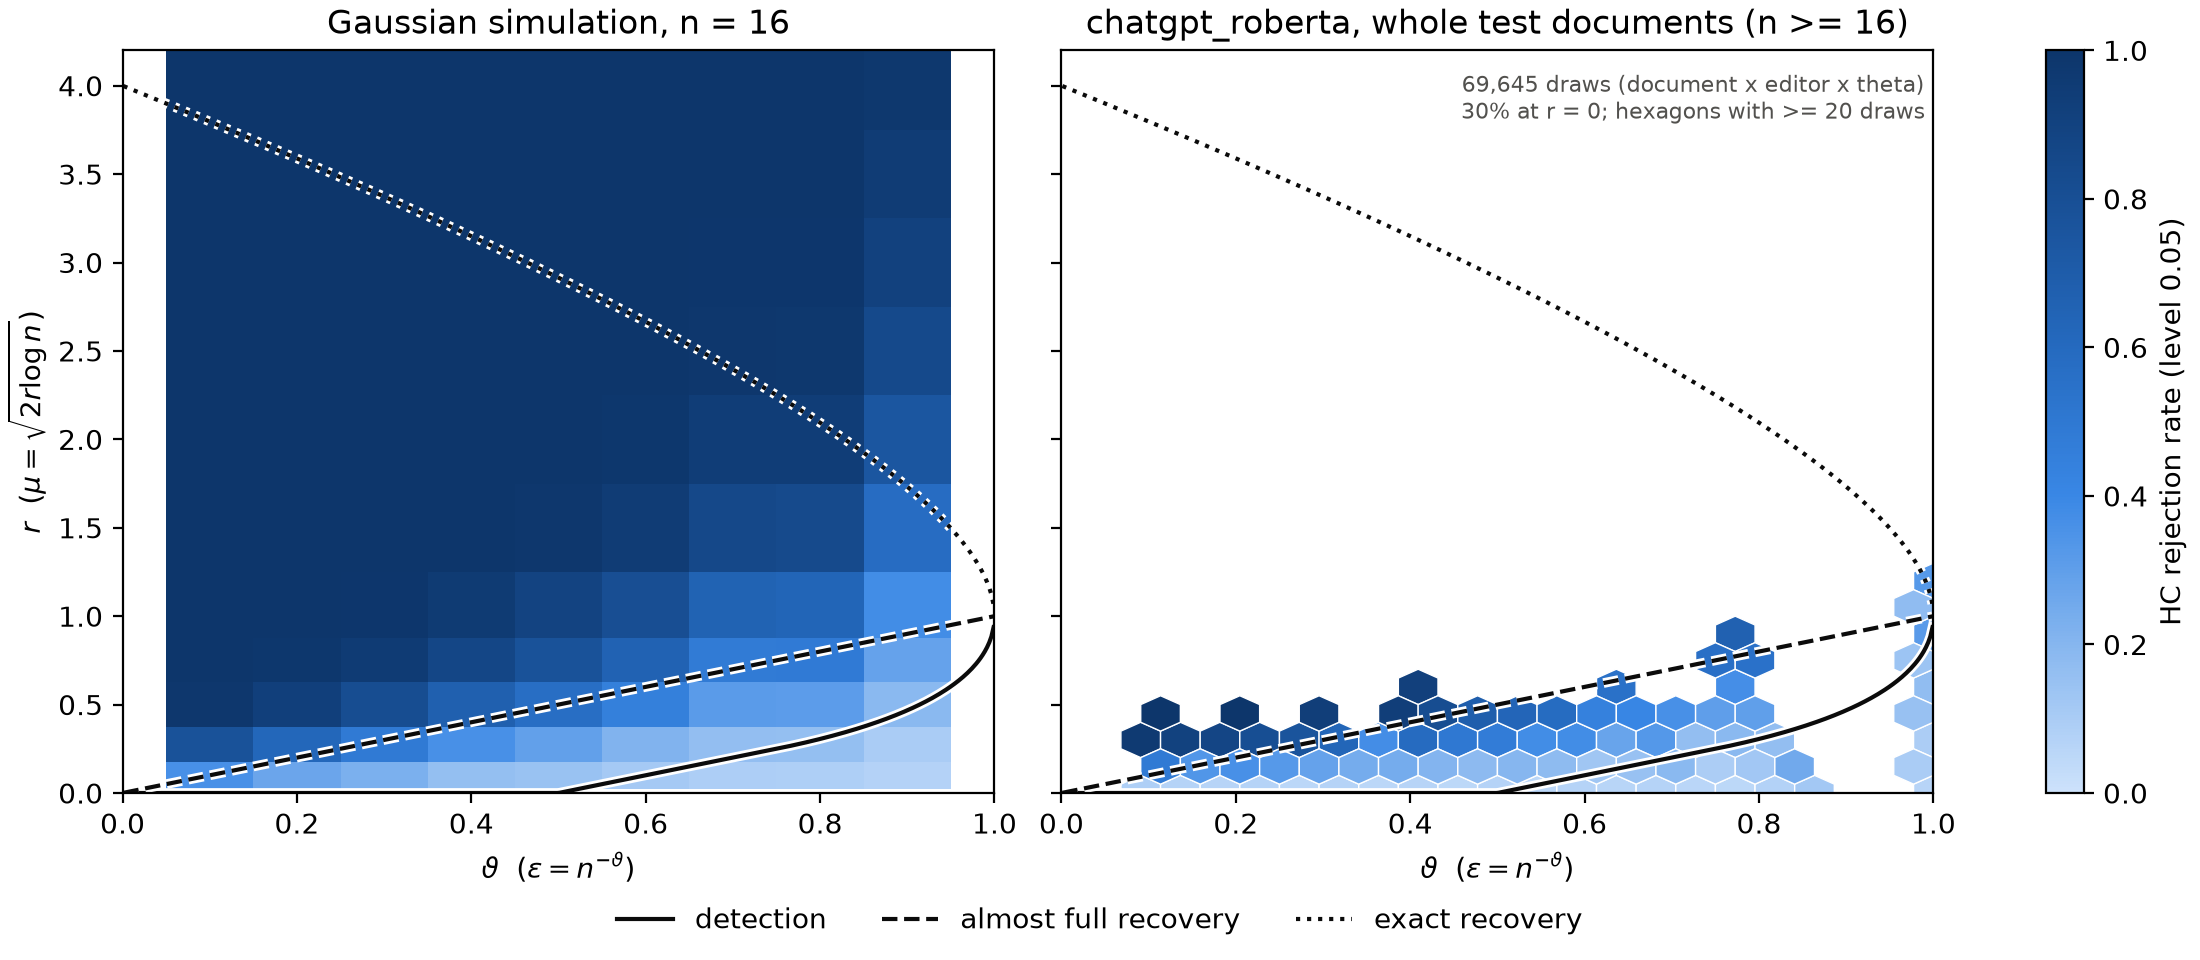
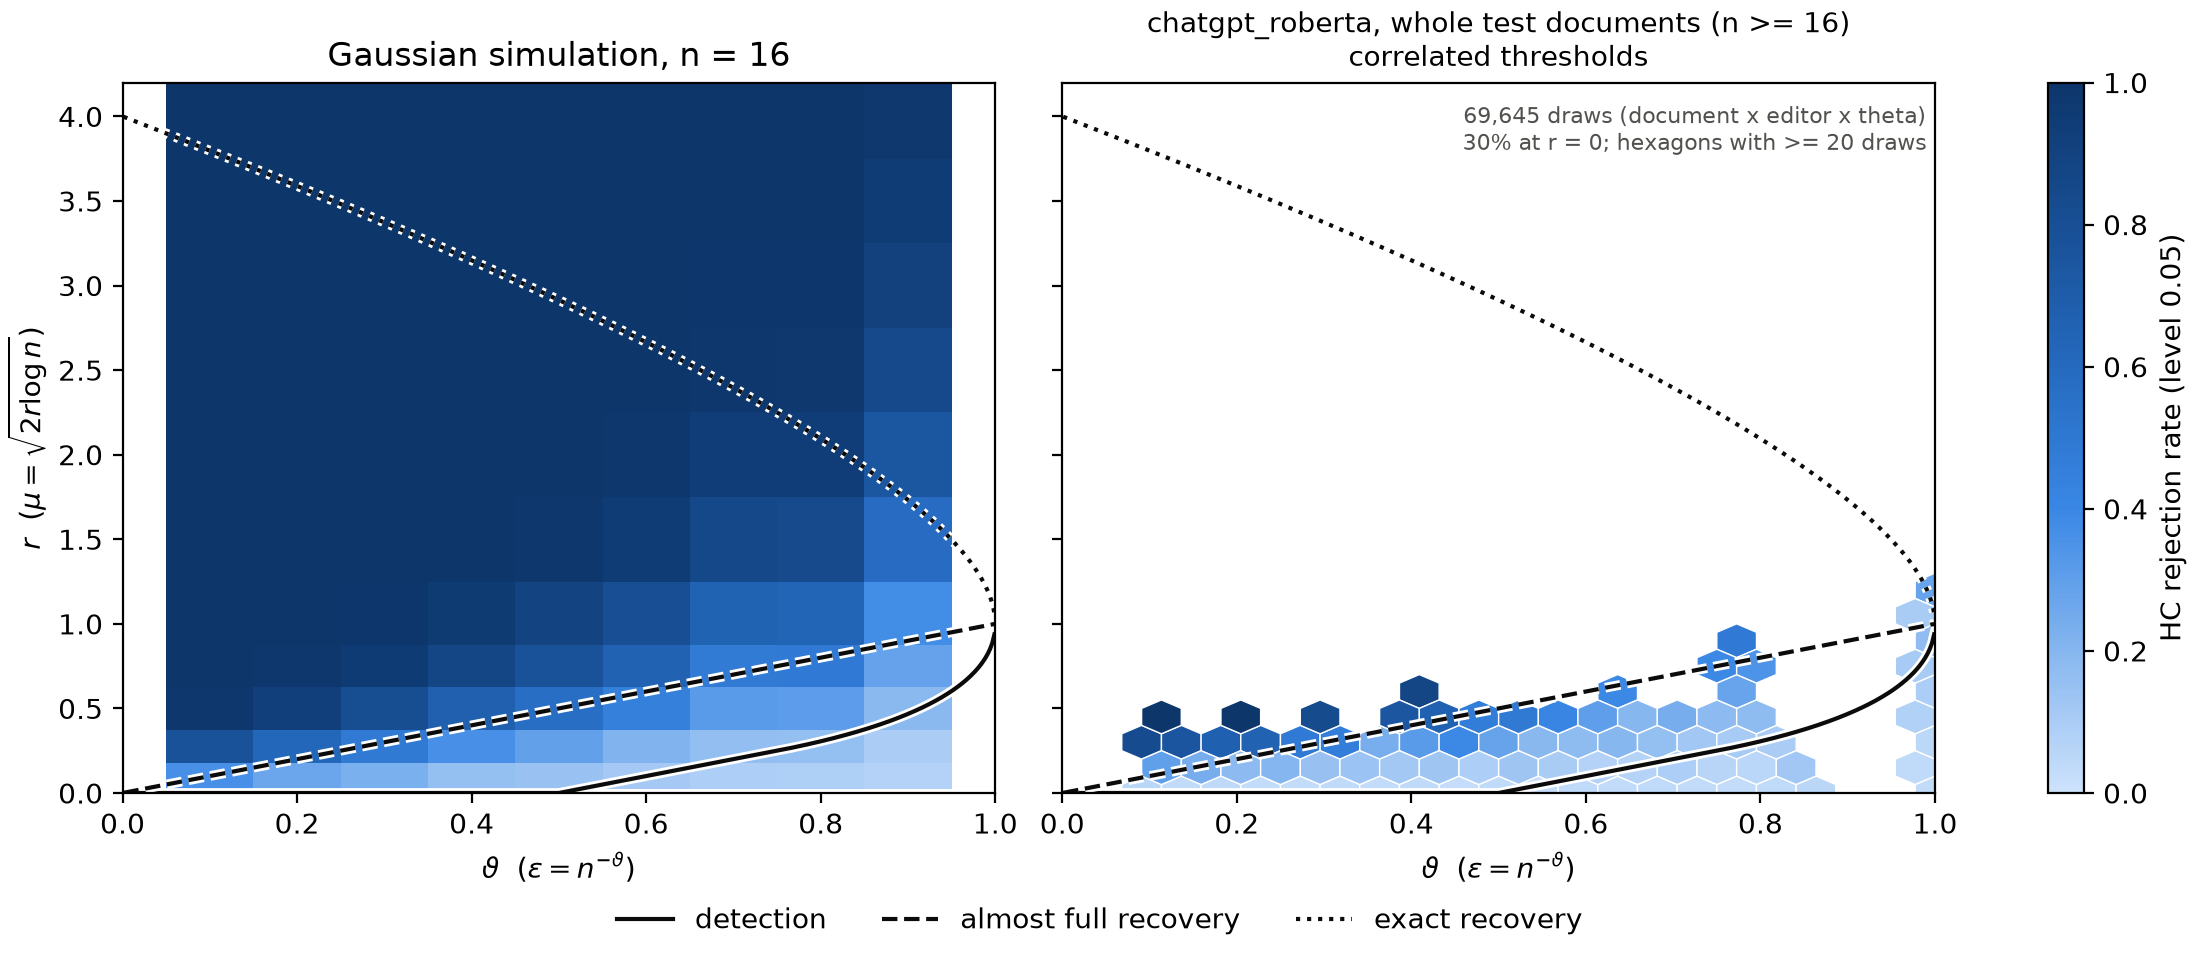
Pilot results: type I error and power under the correlated thresholds
With thresholds for the within-document correlation, every global test is back to
0.04-0.06 on human-only documents (Stouffer was 0.24, HC+ 0.17, HC 0.09). HC on the
ChatGPT RoBERTa detector still detects dense edits (11.1% at theta = 0.1 vs 4.7%) and
short documents now do better than long ones. Review item 41 records the fix.

diff --git a/docs/pilot-results.md b/docs/pilot-results.md
@@ -43,61 +43,73 @@ AUC of edited vs human test sentences (all sources; 0.5 = no signal):
 ![phase diagram, chatgpt_roberta](figures/pilot/phase_chatgpt_roberta.png)
 
 Each edited test document (one draw per editor and theta) is placed at its own theta = 1 − log m / log n and
-r = max(mean edited z, 0)² / (2 log n), and binned; colour is the share HC rejects. r uses the true edit positions
+r = max(mean edited z, 0)² / (2 log n), and binned; colour is the share HC rejects, with thresholds that account for
+within-document correlation (section 3). r uses the true edit positions
 and the same z the test sees, so this placement is descriptive, not an estimate. Most mass sits at r < 0.5, below
 the almost-full-recovery line, and 30% of draws at r = 0.
 
 ![HC power by theta](figures/pilot/power.png)
 
-For `chatgpt_roberta`, HC rejects 17.3% of edited documents at theta = 0.1 (dense), 11.1% at 0.5 and 9.2% at 0.9,
-against 8.9% on human-only documents: detectable when dense, indistinguishable from the null when sparse. A shift of
+With the correlated thresholds of section 3, HC on `chatgpt_roberta` rejects 11.1% of edited documents at
+theta = 0.1 (dense), 6.4% at 0.5 and 4.9% at 0.9, against 4.7% on human-only documents: detectable when dense,
+indistinguishable from the null when sparse. (With the old iid thresholds: 17.3%, 11.1%, 9.2% against 8.9%.)
+Short documents are now detected more often than long ones (12.6% for n = 16-31 vs 6.8% for n ≥ 64 at
+theta = 0.1): with a shared document component, extra sentences add little independent information (effective
+sample size n / (1 + (n − 1) rho) levels off at about 1 / rho), while the threshold keeps growing with n. A shift of
 z ≈ 0.4 at n = 16 is r ≈ 0.03, far below the detection boundary for theta > 1/2 (r = 0.2 at theta = 0.7), so this
 is the expected behaviour of a weak detector, not a failure of HC. Support recovery fails everywhere (BH exact
 recovery 0%, Hamming error / m ≈ 1). `openai_roberta` stays at or below its null rate at every theta.
 
 [phase diagram, openai_roberta](figures/pilot/phase_openai_roberta.png)
 
-## 3. Within-document dependence breaks the global tests' null
+## 3. Within-document dependence breaks the iid thresholds; correlated thresholds restore the level
 
 ![type I error](figures/pilot/type1.png)
 
-On human-only documents (whole, n ≥ 16, 1,301 documents, nominal 0.05):
+Rejection rate on human-only documents (whole, n ≥ 16, 1,301 documents, nominal 0.05), with the iid thresholds
+used so far and with thresholds for the within-document correlation:
 
-| test | openai_roberta | chatgpt_roberta |
-|---|---|---|
-| min-p | 0.045 | 0.057 |
-| HC | 0.059 | 0.089 |
-| HC+ | 0.111 | 0.172 |
-| Stouffer | 0.145 | 0.238 |
+| test | openai_roberta, iid | openai_roberta, correlated | chatgpt_roberta, iid | chatgpt_roberta, correlated |
+|---|---|---|---|---|
+| min-p | 0.045 | 0.046 | 0.057 | 0.060 |
+| HC | 0.059 | 0.051 | 0.089 | 0.047 |
+| HC+ | 0.111 | 0.055 | 0.172 | 0.046 |
+| Stouffer | 0.145 | 0.050 | 0.238 | 0.038 |
+
+Windows of 16 and 32 give the same picture (correlated: 0.03-0.07 for every test and detector).
 
 With synthetic i.i.d. scores on the same test split (whole documents, before the length cutoff) Stouffer is 0.046, so the inflation comes from the text. The
 intraclass correlation of human sentence z within test documents is 0.07-0.28 per source for `chatgpt_roberta`
 (ELLIPSE 0.28, PERSUADE 0.23) and 0.02-0.09 for `openai_roberta`: a document's sentences share author and topic, so
 their scores move together. Tests that pool many moderate p-values (Stouffer, HC+) suffer most; min-p, which uses
-only the smallest, holds its level. The Monte Carlo thresholds in `stats.null_thresholds` assume independence
-(review items 41, 44), so every power number above is measured against an inflated null.
+only the smallest, holds its level. The original Monte Carlo thresholds assumed independence (review items 41, 44).
 
-**Proposed fix** (review items 41, 58-60):
-1. Split the calib split by document into two halves: one stays the conformal null; the other gets p-values against
-   it and serves as human documents for the null of the global tests (this also fills `hc_variants.calib_window_z`).
-2. Estimate the within-document dependence per source from that half: an exchangeable correlation rho (one parameter,
-   works for any n), or a Toeplitz Sigma (`hc_variants.toeplitz_covariance`).
-3. Thresholds by Monte Carlo under that Sigma (`hc_variants.null_thresholds_dependent`) instead of i.i.d. uniforms,
-   per source and n; check that type I error on human-only test documents returns to 0.05.
-4. Alternatively, PC-adjusted / innovated HC (Lecture 4) to remove the shared component before testing; this also
-   removes part of a dense signal, so it suits the sparse cells.
+**Fix** (review item 41):
+1. `calibrate.py` cross-fits the calib split: calib documents are split in two folds (by a hash of seed and doc_id,
+   the same for every detector), and each fold's sentences get p-values against the other fold
+   (`pvalues_calib/<detector>.parquet`). Test p-values are unchanged (checked byte for byte).
+2. `phase.py` estimates one correlation rho per source and detector from those calib documents (one-way ANOVA
+   intraclass correlation). For `chatgpt_roberta`: ELLIPSE 0.26, PERSUADE 0.23, FineWeb-Edu 0.17, Enron 0.16,
+   XSum 0.16, WritingPrompts 0.12, peS2o 0.12, OpenReview 0.09, within 0.02 of the same estimate on test documents.
+3. Thresholds by Monte Carlo under the equicorrelated model z_j = sqrt(rho) a + sqrt(1 − rho) e_j
+   (`stats.null_thresholds(..., rho)`), per source and document length, as a third null type,
+   `conformal_dependent`. Stouffer's threshold, for example, becomes 1.645 sqrt(1 + (n − 1) rho): 3.66 instead of
+   1.64 for ELLIPSE at n = 16. A run takes about 14 minutes instead of 3.
+4. Not done: a richer Sigma (Toeplitz, `hc_variants`), or PC-adjusted / innovated HC (Lecture 4) to remove the
+   shared component before testing, which suits sparse cells.
 
 ## 4. Edited fraction
 
 With these detectors the estimators carry little information. Storey's estimate stays at 0.16-0.24 for
-`chatgpt_roberta` whatever the true fraction (0.04-0.66); the Meinshausen-Rice lower bound is about 0.01 and covers
-in 95-100% of draws (95.1% at theta = 0.9, where dependence pushes it toward the nominal level).
+`chatgpt_roberta` whatever the true fraction (0.04-0.66); the Meinshausen-Rice lower bound is about 0.01 with iid
+thresholds and 0.003 with correlated ones, covering in 98% and 99.6% of draws.
 
 ## Next
 
 1. The fine-tuned ModernBERT (Ege) through the same pipeline: the run most likely to place documents in the
    detectable region. The 7-8B zero-shot scores need a GPU (RunPod).
-2. A valid null under dependence (above), then power against it.
+2. Check the equicorrelated model against a direct estimate (95th percentile of each test on calib documents), and
+   compare with PC-adjusted HC.
 3. ε̂ per cell (all documents pooled) instead of per document.
 4. Comparisons for the report: detector strength vs detectability, held-out editor (Qwen), sources, light vs full.
 

diff --git a/docs/review.md b/docs/review.md
@@ -343,8 +343,14 @@ preliminary choice, where it lives, and what to check.
     - Preliminary: not handled; p-values within a document are treated as independent.
     - Measured 2026-11-01 (Rui, [pilot-results.md](pilot-results.md)): intraclass correlation of human sentence z
       within test documents is 0.07-0.28 per source for the HC3 RoBERTa detector, and on human-only documents
-      (n >= 16) Stouffer rejects 24%, HC+ 17%, HC 9%, min-p 6% at nominal 5%. Proposed fix there: thresholds under a
-      Sigma estimated from a held-out half of calib.
+      (n >= 16) Stouffer rejects 24%, HC+ 17%, HC 9%, min-p 6% at nominal 5%.
+    - Preliminary fix (2026-11-01, Rui): calib documents are split in two folds and cross-fitted
+      (`calibrate.cross_fit_calib`); `phase.calib_correlation` estimates one within-document correlation rho per
+      source and detector from them; `stats.null_thresholds(..., rho)` gives thresholds for equicorrelated null
+      documents, reported as null type `conformal_dependent` next to `conformal`. Type I error returns to
+      0.04-0.06 for every test (whole mode, both detectors).
+    - Review: equicorrelation is the simplest model (one parameter per source); check it against direct quantiles
+      on calib documents, or use a Toeplitz Sigma. Thresholds grow with n, so long documents lose power.
     - Review: author style shifts all sentences of a document together. The PC adjustment from lecture still has to
       be specified.
 
